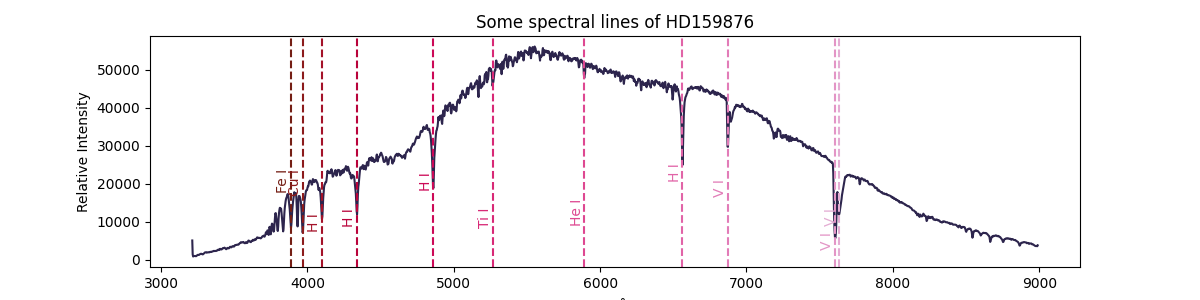
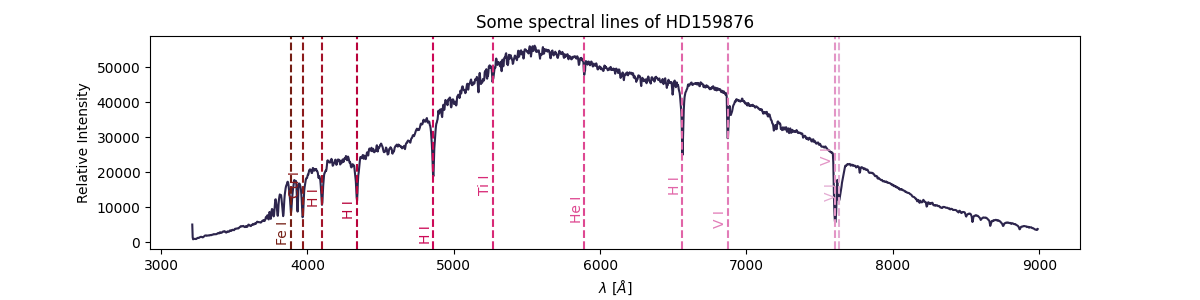
Spectra corrected but still shit

diff --git a/DN4/main_63700.py b/DN4/main_63700.py
@@ -24,19 +24,19 @@ def spec_line(wave_table, label_table, label_height=10000, label_offset=100):
 
 plt.figure(figsize=(12, 3))
 x, y = np.column_stack(np.genfromtxt("HD63700.txt"))
-x = x * 1e-10
 lines = ["5266.2", "5892", "6139", "6497.4", "6563.4", "6871.6", "7605.5", "7630.9", "8500.1", "8544", "8665.2"]
 label = ["Fe I", "Na I", "Cs III", "Fe I", "H I", "V I", "V I", "V I", "V I", "V I", "Fe I"]
 wavelengths = np.arange(1e-7, 1e-6, 1e-8)
-plt.plot(x, y/np.max(y), c=c1)
-# spec_line(lines, label)
+plt.plot(x, y, c=c1)
+spec_line(lines, label)
 # plt.axvline(6871.6, ls="--", c=c2)
 temp = 6000
-line2 = planck(wavelengths, temp)
-plt.plot(wavelengths, line2/np.max(line2), c=c3, label="Planck for {} K".format(temp))
+# line2 = planck(wavelengths, temp)
+# plt.plot(wavelengths, line2/np.max(line2), c=c3, label="Planck for {} K".format(temp))
 
-plt.title("Planck fitted to HD63700")
+plt.title("Some spectral lines of HD63700")
 plt.xlabel(r"$\lambda$ [m]")
-plt.ylabel("Normalized Intensity")
+plt.ylabel("Relative Intensity")
 plt.legend()
+plt.subplots_adjust(bottom=0.17)
 plt.show()

diff --git a/DN4/main_82734.py b/DN4/main_82734.py
@@ -31,13 +31,14 @@ lines = ["4861", "5168", "5266", "5890",  "5896", "6497", "6564", "6871", "7605"
 label = ["H I", "Fe I", "Fe I", "Na I", "Na I", "Fe I", "H I", "V I", "V I", "V I"]
 
 wavelengths = np.arange(1000e-10, 15000e-10, 1e-10)
-plt.plot(x, y/np.max(y), c=c1)
-# spec_line(lines, label)
+plt.plot(x, y, c=c1)
+spec_line(lines, label)
 # plt.axvline(6871.6, ls="--", c=c2)
 temp = 4000
-line2 = planck(wavelengths, temp)
-plt.plot(wavelengths * 10e9, line2/np.max(line2), c=c3, label=temp)
+# line2 = planck(wavelengths, temp)
+# plt.plot(wavelengths * 10e9, line2/np.max(line2), c=c3, label=temp)
 plt.title("Some spectral lines of HD82734")
 plt.xlabel(r"$\lambda$ [$\AA$]")
 plt.ylabel("Relative Intensity")
+plt.subplots_adjust(bottom=0.17)
 plt.show()

diff --git a/DN4/HD104731.py b/DN4/HD104731.py
@@ -24,4 +24,5 @@ spec_line(lines, label)
 plt.title("Some spectral lines of HD104731")
 plt.xlabel(r"$\lambda$ [$\AA$]")
 plt.ylabel("Relative Intensity")
+plt.subplots_adjust(bottom=0.17)
 plt.show()

diff --git a/DN4/main_159876.py b/DN4/main_159876.py
@@ -24,4 +24,5 @@ spec_line(lines, label)
 plt.title("Some spectral lines of HD159876")
 plt.xlabel(r"$\lambda$ [$\AA$]")
 plt.ylabel("Relative Intensity")
+plt.subplots_adjust(bottom=0.17)
 plt.show()

diff --git a/DN4/main_90852.py b/DN4/main_90852.py
@@ -24,4 +24,5 @@ spec_line(lines, label)
 plt.title("Some spectral lines of HD90852")
 plt.xlabel(r"$\lambda$ [$\AA$]")
 plt.ylabel("Relative Intensity")
+plt.subplots_adjust(bottom=0.17)
 plt.show()

diff --git a/DN4/main_92305.py b/DN4/main_92305.py
@@ -24,4 +24,5 @@ spec_line(lines, label)
 plt.title("Some spectral lines of HD92305")
 plt.xlabel(r"$\lambda$ [$\AA$]")
 plt.ylabel("Relative Intensity")
+plt.subplots_adjust(bottom=0.17)
 plt.show()

diff --git a/DN4/main_ltt.py b/DN4/main_ltt.py
@@ -24,4 +24,5 @@ spec_line(lines, label)
 plt.title("Some spectral lines of LTT6248")
 plt.xlabel(r"$\lambda$ [$\AA$]")
 plt.ylabel("Relative Intensity")
+plt.subplots_adjust(bottom=0.17)
 plt.show()
